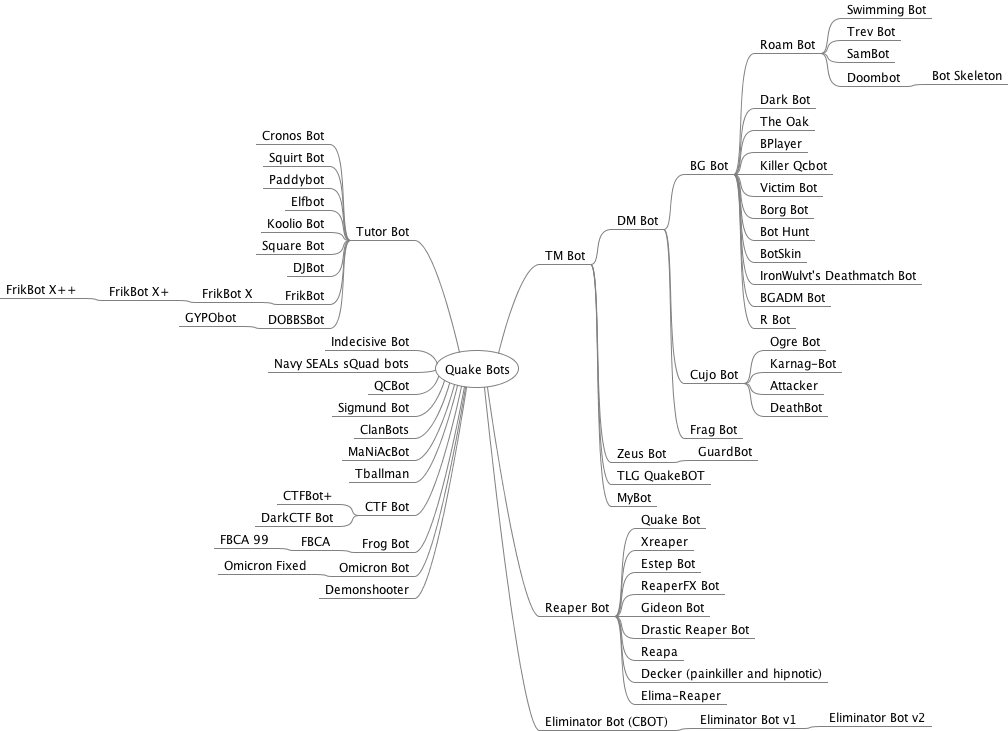
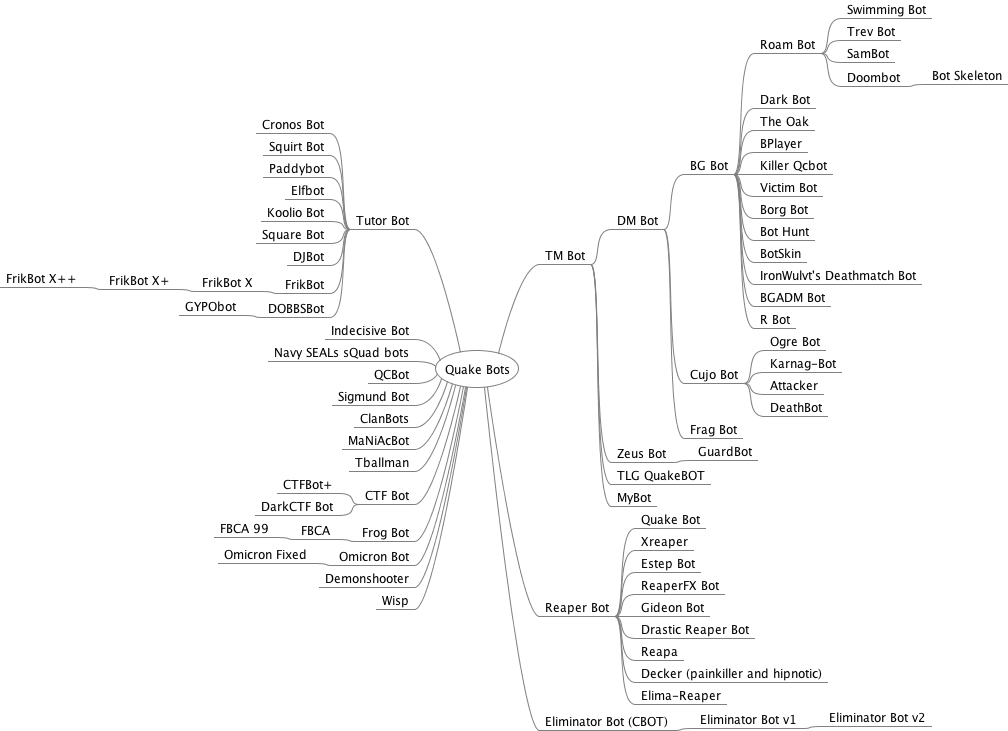
Added wisp

Changed region(s): [[0.0, 0.1505, 0.4613, 0.8427], [0.4306, 0.3611, 0.4613, 0.4213]]

diff --git a/mindmap/QuakeBots.mm b/mindmap/QuakeBots.mm
@@ -1,6 +1,6 @@
 <map version="1.0.1">
 <!-- To view this file, download free mind mapping software FreeMind from http://freemind.sourceforge.net -->
-<node CREATED="1622514182273" ID="ID_507786403" MODIFIED="1622767170618" TEXT="Quake Bots">
+<node CREATED="1622514182273" ID="ID_507786403" MODIFIED="1622929964637" TEXT="Quake Bots">
 <node CREATED="1622514794312" ID="ID_565546253" MODIFIED="1622671396799" POSITION="left" TEXT="Tutor Bot">
 <node CREATED="1622514804704" ID="ID_11024833" MODIFIED="1622514812370" TEXT="Cronos Bot"/>
 <node CREATED="1622665755811" ID="ID_1110325053" MODIFIED="1622665757190" TEXT="Squirt Bot"/>
@@ -93,5 +93,6 @@
 <node CREATED="1622847974815" ID="ID_795407214" MODIFIED="1622847979359" TEXT="Omicron Fixed"/>
 </node>
 <node CREATED="1622929540892" ID="ID_927745678" MODIFIED="1622929541844" POSITION="left" TEXT="Demonshooter"/>
+<node CREATED="1622929965131" ID="ID_652083117" MODIFIED="1622929966278" POSITION="left" TEXT="Wisp"/>
 </node>
 </map>

diff --git a/README.md b/README.md
@@ -82,9 +82,10 @@ Tballman | "Mother" | [tballman.zip](bin/tballman.zip)
 The Oak | John Crickett and Neil Henderson | [oak0405.zip](bin/oak0405.zip)
 TLG QuakeBOT (Larva) | James Cullen aka "Jaymz" and Chris Cullen aka "Incubus" | [tlgbot.zip](bin/tlgbot.zip)
 TM Bot | Micheal Polucha and Tim Polucha | [tmbot11.zip](bin/tmbot11.zip)
-Trevor McDoanld Bot (TrevBot) | Kris O'Shea | [trevbot.zip](bin/trevbot.zip)
+TrevBot | Kris O'Shea | [trevbot.zip](bin/trevbot.zip)
 Tutor Bot | Darryl Atchison aka "coffee" | [tutor.zip](bin/tutor.zip)
 Victim Bot | Tony Tang aka "The TangMaster" | [vbot11.zip](bin/vbot11.zip)
+Wisp | Iikka Paavolainen | [wisp.zip](bin/wisp.zip) ($)
 Xreaper | ? | xreaperb130.zip
 Zeus Bot | Jonathan E. Wright aka "Nelno the Amoeba" | [zeus205.zip](bin/zeus205.zip)
 
